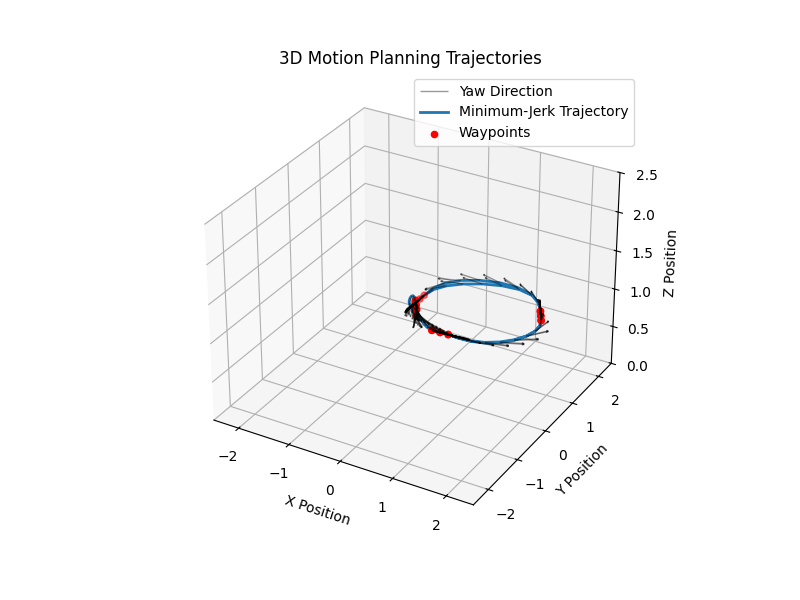
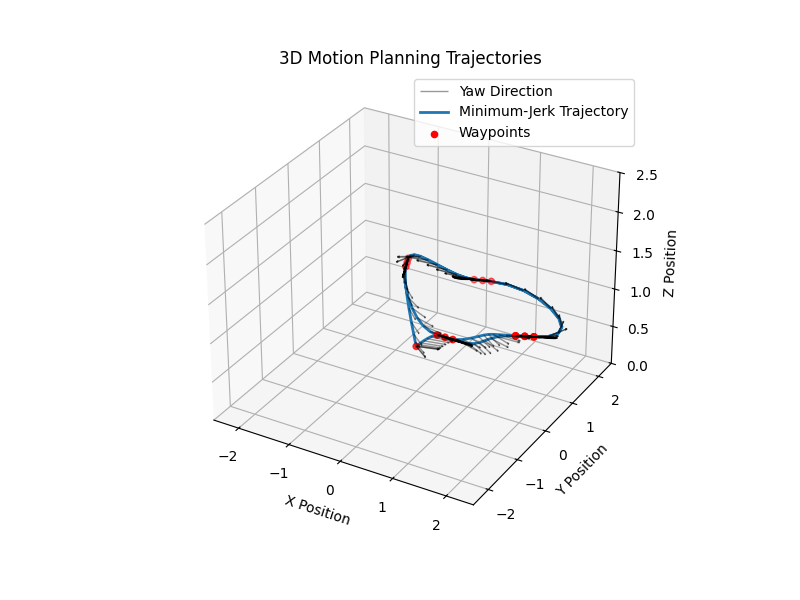
corrected take off angle

Changed region(s): [[0.5, 0.42, 0.7188, 0.6]]

diff --git a/main.py b/main.py
@@ -46,17 +46,18 @@ STATE = {
     "LANDING": 2,
 }
 GATE_THRESHOLD = 0.05                           # Threshold for the position check, in meters
-DT = 0.01                                     # Time step for the main loop, in seconds
+DT = 0.01                                    # Time step for the main loop, in seconds
 LANDING_COORD = [0, 0, 0.3, 0]                    # Landing position of the drone, in [m, m, m, rad]
-TAKE_OFF_COORD = [0, 0, 1.0,  np.deg2rad(-60)]                 # Take off position of the drone, in [m, m, m, rad]
+                # Take off position of the drone, in [m, m, m, rad]
 # GATES = [[0.2, -0.35, 1.3, np.deg2rad(-60)],   # [x, y, z, yaw] of each true gate, in [m, m, m, rad]
 #          [0.8, -0.6, 1.15, np.deg2rad(-1.5)],
 #          [2.2, 0.3, 1.33, np.deg2rad(120)],
 #          [-0.4, 0.82, 0.87, np.deg2rad(-123)]]
 GATES = csv_to_waypoints(csv_file_path) # Load the gates from the CSV file
+TAKE_OFF_COORD = [0, 0, 0.6,  GATES[0][3]]  # Take off position of the drone, in [m, m, m, rad]q
 print(GATES)
 OFFSET_GATE = 0.15                              # Offset to the leading and trailing gate, in meters
-RACING_VELOCITY = 1.0                           # Velocity goal during the racing, in m/s
+RACING_VELOCITY = 0.5                           # Velocity goal during the racing, in m/s
 PLANNER_STEP = 10
 
 class LoggingExample:
